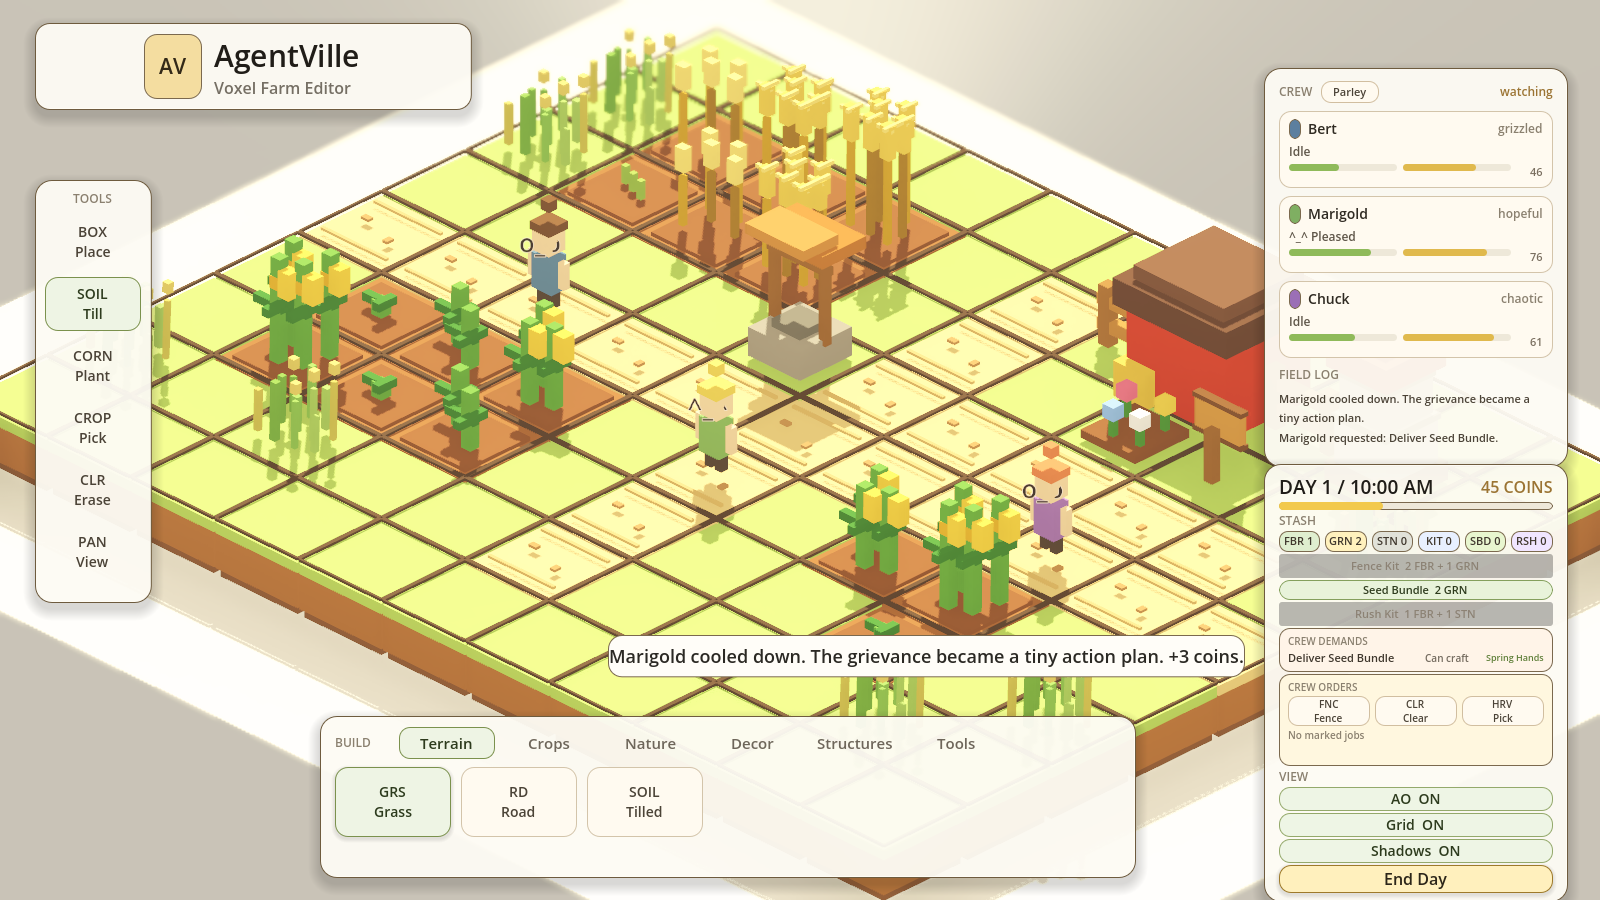
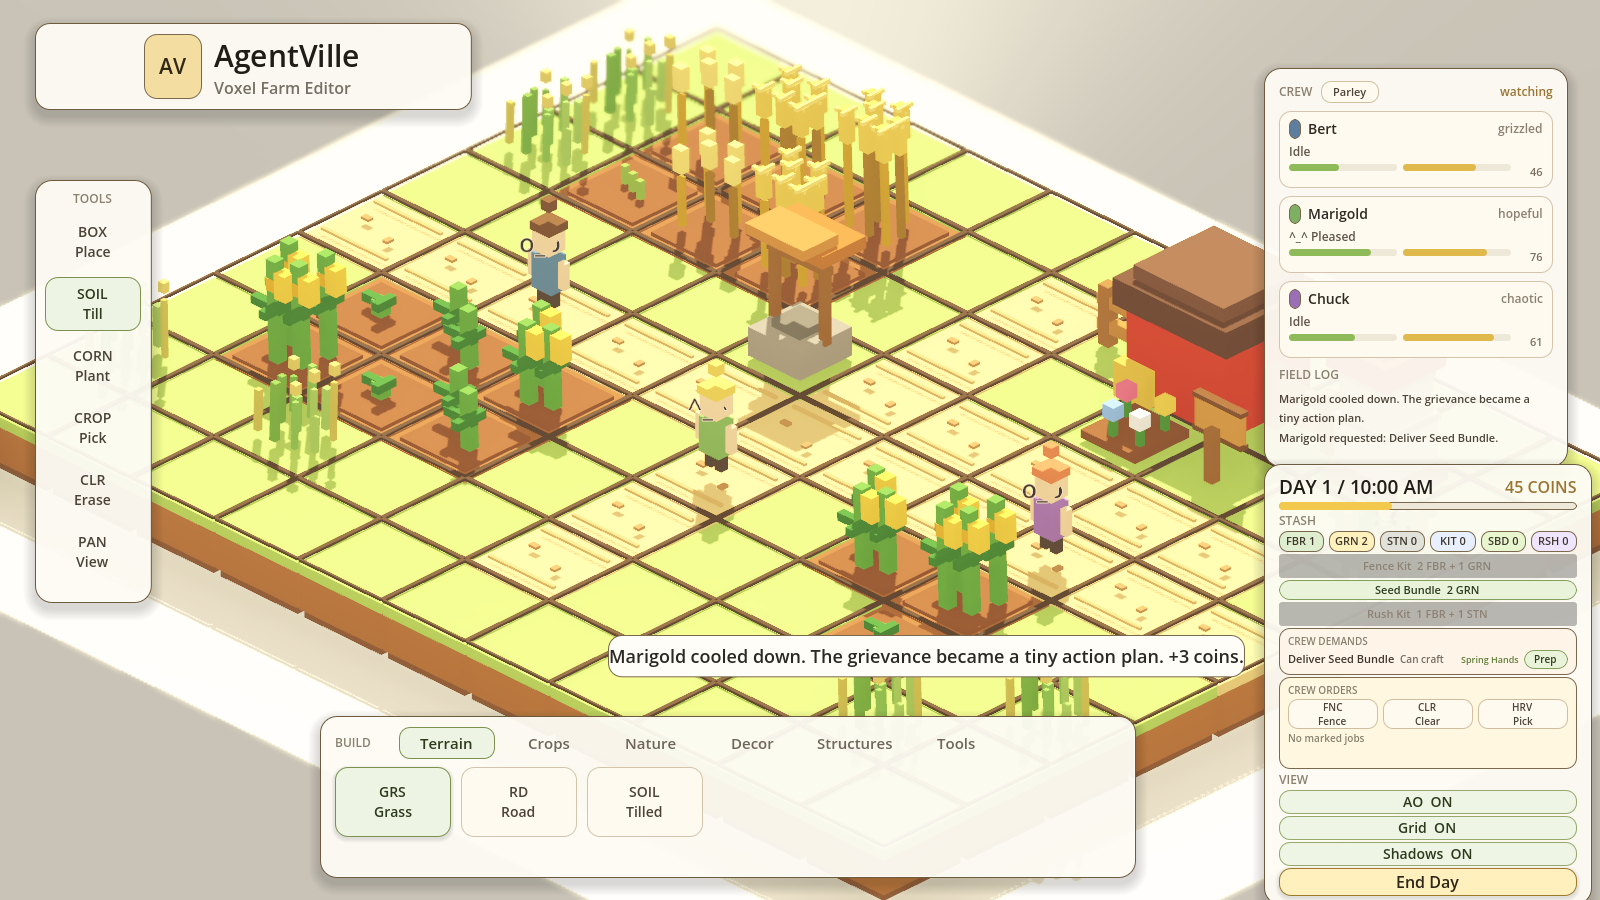
Add demand row supply actions

diff --git a/godot/README.md b/godot/README.md
@@ -71,6 +71,7 @@ Small Godot 4 vertical slice for a cozy isometric voxel farm builder.
 - `tools/smoke_hustle_hands_perk.gd` exercises Chuck's Rush Kit payoff, Stone/Fiber crafting, Hustle Hands clearing, and farm-perk receipts.
 - `tools/smoke_demand_reward_preview.gd` exercises compact demand-row payoff previews for Fence Hands, Spring Hands, and Hustle Hands before delivery.
 - `tools/smoke_demand_craftable_status.gd` exercises crew demand rows switching from missing supply to `Can craft` when recipe ingredients are available.
+- `tools/smoke_demand_row_actions.gd` exercises demand-row `Prep` and `Give` actions that craft or deliver supply payoffs directly.
 - `tools/smoke_demand_variety.gd` exercises demand type selection, demand aging, pressure receipts, action completion, and NPC-specific perks.
 - `tools/smoke_demand_targeting.gd` exercises targeted demand tile selection, UI coordinates, demand markers, target focus, and tile-specific completion.
 - `tools/smoke_npc_authored_work_orders.gd` exercises aged targeted demands becoming NPC-authored work orders that complete the source demand through crew action.